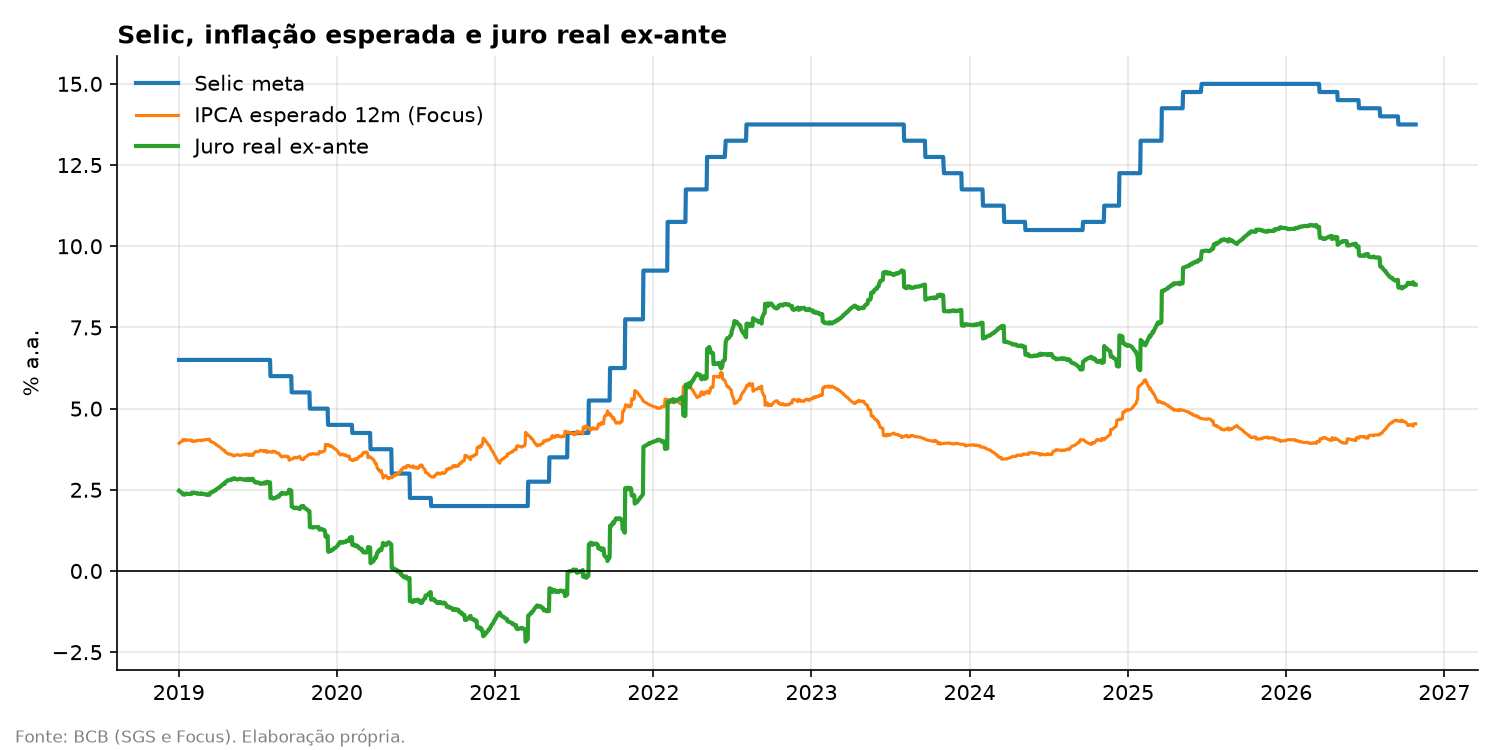
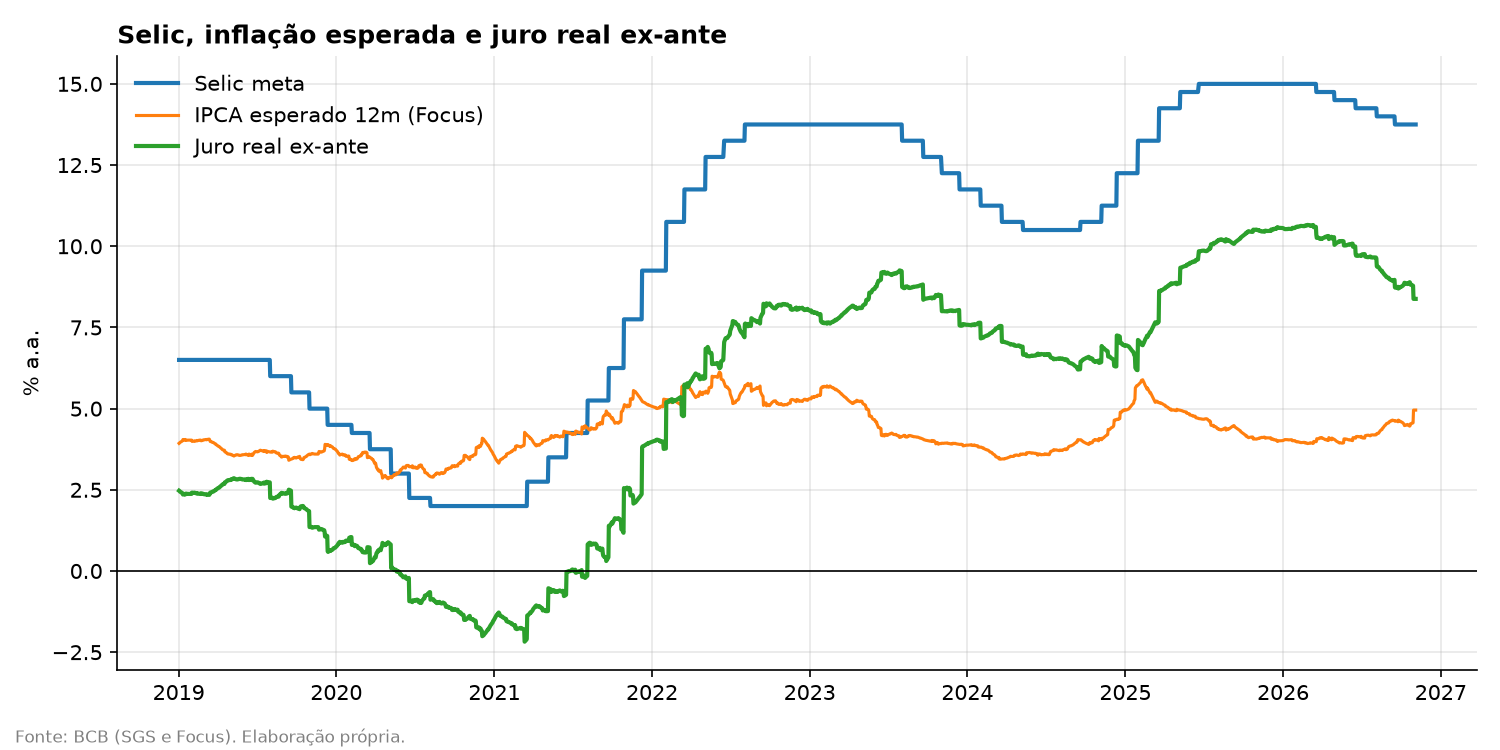
Add files via upload

diff --git a/README.md b/README.md
@@ -19,7 +19,32 @@ Monitor em Python que coleta dados públicos do Banco Central do Brasil e do Fed
 | Volatilidade do câmbio (21d) | Cálculo próprio | Risco percebido no real |
 | Dólar a termo teórico | Cálculo próprio | Preço justo do termo pela paridade coberta |
 
-## Leitura de conjuntura — outubro/2026
+## Leitura de conjuntura — novembro/2026
+
+*Dados até 04/11/2026.*
+
+| Indicador | 27/10 | 04/11 | Variação |
+|---|---|---|---|
+| Selic meta | 13,75% | 13,75% | igual |
+| IPCA esperado 12m (Focus) | 4,53% | 4,96% | +0,43 p.p. |
+| Juro real ex-ante | 8,82% | 8,38% | −0,44 p.p. |
+| Fed Funds | 3,88% | 3,88% | igual |
+| Diferencial BR–EUA | 9,87 p.p. | 9,87 p.p. | igual |
+| USD/BRL | 5,3346 | 5,4778 | +2,7% |
+| Volatilidade 21d | 37,6% | 37,8% | estável |
+| Dólar a termo 12 meses | 5,8415 | 5,9983 | +0,16 |
+
+**Juros.** Em 4 de novembro, o Copom manteve a Selic em 13,75% a.a., por unanimidade, e interrompeu uma sequência de cinco cortes de 0,25 p.p. O comitê elevou suas projeções de inflação para 5,6% em 2026 e 4,7% em 2027, ambas acima do teto da meta, e não indicou quando retomará os cortes. A semana já mostrava o motivo nos dados do monitor: a inflação esperada para os próximos 12 meses subiu de 4,53% para 4,96%, e o juro real ex-ante caiu de 8,8% para 8,4% mesmo com a Selic parada. Com expectativas piorando, o mesmo nível de Selic aperta menos a economia, e novos cortes afrouxariam ainda mais a política monetária.
+
+**Câmbio.** O diferencial de juros entre Brasil e EUA seguiu em 9,87 p.p., mas o dólar subiu 2,7% na semana, para R$ 5,48 (taxa do BCB). Isso reforça a leitura de outubro: no momento, a percepção de risco pesa mais que o carry. A volatilidade realizada de 21 dias continua perto de 38% a.a., quase o triplo da média do período, mas parte desse número é efeito da janela de cálculo: o dia da alta de cerca de 8% após a eleição ainda está dentro dos 21 dias e deve sair da conta no fim de novembro.
+
+**Proteção cambial.** Como os juros não mudaram, o prêmio do dólar a termo sobre o spot ficou igual: 4,6% em 6 meses e 9,5% em 12 meses. O termo de 12 meses subiu de 5,84 para 6,00 apenas porque o dólar de partida subiu. Para um importador, adiar o hedge ficou mais caro. Para um exportador, o termo continua pagando o diferencial de juros acima do spot.
+
+**O que acompanhar.** A ata do Copom em 10/11 deve esclarecer as condições para retomar os cortes. Também importam a próxima reunião, em 8 e 9/12, a evolução do IPCA esperado no Focus e a queda da volatilidade quando o choque pós-eleição sair da janela de 21 dias.
+
+## Leituras anteriores
+
+### Outubro/2026
 
 **Juros.** A Selic iniciou um ciclo de alta no fim de 2024 e chegou a 15% a.a. em meados de 2025, nível em que permaneceu até o início de 2026. Desde então, o Banco Central vem reduzindo os juros de forma gradual, e a meta está hoje em 13,75% a.a. Apesar dos cortes, a política monetária segue contracionista: descontada a inflação esperada para os próximos 12 meses (4,53%, segundo o Focus), o juro real ex-ante está em 8,8% a.a., bem acima das estimativas de juro neutro, em torno de 5%. Ou seja, o BC está aliviando o aperto, não estimulando a economia.
 
